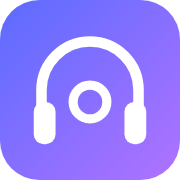
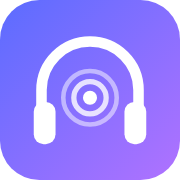
Icône Odecast: casque avec cercles concentriques; v166
Claude-Session: https://claude.ai/code/session_01UPsEkbV1CFqTs3hgoHdmkF

Changed region(s): [[0.3333, 0.3611, 0.6667, 0.7222]]

diff --git a/app.js b/app.js
@@ -1,4 +1,4 @@
-const APP_VERSION = '2026-11-06.165';
+const APP_VERSION = '2026-11-06.166';
 const $ = s => document.querySelector(s);
 const svg = (d, n = 20, fill = false) => `<svg viewBox="0 0 24 24" width="${n}" height="${n}" ${fill ? 'fill="currentColor"' : 'fill="none" stroke="currentColor" stroke-width="2" stroke-linecap="round" stroke-linejoin="round"'} aria-hidden="true">${d}</svg>`;
 const IC = {
